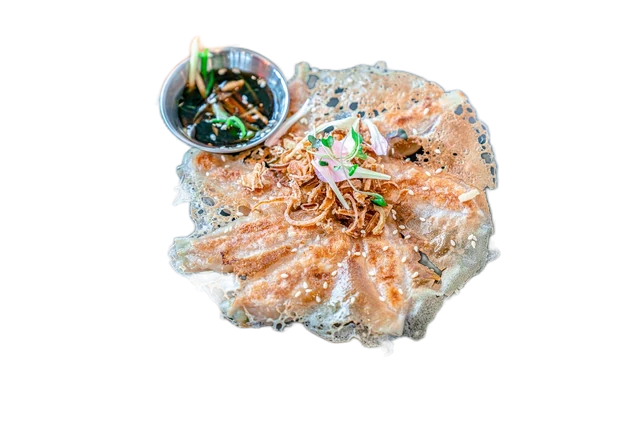
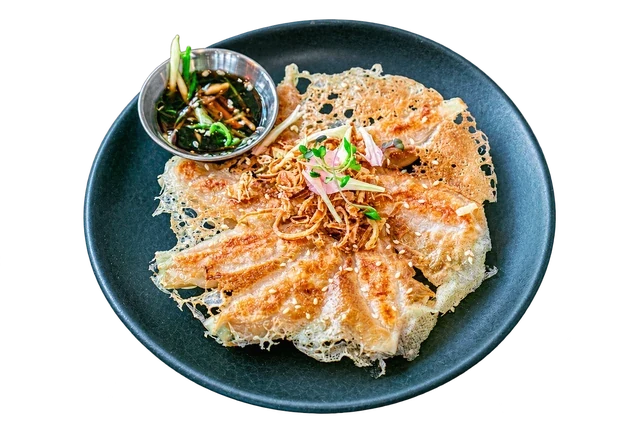
Restore Gyoza plate and clean Benedict cutout background

diff --git a/src/glimmer/catalogue.ts b/src/glimmer/catalogue.ts
@@ -10,7 +10,7 @@ import illustrations from './illustrative-portions.json';
 export interface MarketDish {
   id:string; venueId:string; restaurant:string; name:string; category:string; description:string;
   price:string; ingredients:string[]; allergens:string[]|null; dietary:string[];
-  illustrative?:boolean; menuImage?:string; photoCredit?:string; sourceUrl?:string; image:string; modelId?:string; sample:boolean; servingCount?:number; portion?:PublicPortion;
+  illustrative?:boolean; cutoutEdited?:boolean; menuImage?:string; photoCredit?:string; sourceUrl?:string; image:string; modelId?:string; sample:boolean; servingCount?:number; portion?:PublicPortion;
 }
 const originals:MarketDish[]=dishes.map(d=>{const photo=photos[d.id as keyof typeof photos],portion=portions[d.id as keyof typeof portions],illustration=illustrations[d.id as keyof typeof illustrations];return ({
   id:d.id, venueId:d.restaurantId, restaurant:restaurants.find(r=>r.id===d.restaurantId)!.name,
@@ -18,7 +18,7 @@ const originals:MarketDish[]=dishes.map(d=>{const photo=photos[d.id as keyof typ
   description:d.description.replace(/^Sample dish:\s*/i,''),price:demoPrice(d.id), ingredients:d.ingredients,allergens:photo?null:d.allergens,
   dietary:photo?[]:[...(d.dietary.vegan?['Vegan']:[]),...(d.dietary.vegetarian?['Vegetarian']:[]),...(d.dietary.glutenFree?['Gluten-free']:[])],
   image:photo?`${import.meta.env.BASE_URL}${photo.photo}`:illustration?`${import.meta.env.BASE_URL}${illustration.image}`:`${import.meta.env.BASE_URL}glimmer/${d.image}`,menuImage:`${import.meta.env.BASE_URL}glimmer/${d.image}`,illustrative:!!illustration,modelId:d.id,sample:true,
-  photoCredit:photo?`${photo.sourceDish} · ${photo.note}`:undefined,sourceUrl:photo?.source,
+  photoCredit:photo?`${photo.sourceDish} · ${photo.note}`:undefined,sourceUrl:photo?.source,cutoutEdited:portion?.segmentation.engine==='imagegen',
   portion:PublicPortionSchema.parse(portion?.portion??illustration?.portion??prepared[d.id as keyof typeof prepared].portion),
 });});
 

diff --git a/src/glimmer/dining-ui.ts b/src/glimmer/dining-ui.ts
@@ -63,7 +63,7 @@ export class DiningUI {
    const dx=a.reducedMotion?0:this.artX,dy=a.reducedMotion?0:this.artY;
    for(const layer of preview.images){const ratio=layer.image.naturalHeight/layer.image.naturalWidth,w=size-24,h=w*ratio;c.save();c.translate(x+size/2+dx*layer.depth,y+size/2+dy*layer.depth);c.transform(1,dy*.002,dx*.002,1,0,0);c.drawImage(layer.image,-w/2,-h/2,w,h);c.restore();}c.restore();
   }
-  a.text(this.photoMode?(d.illustrative?'ILLUSTRATIVE IMAGE':'PHOTO'):preview?.layered?'2.5D PREVIEW':'PHOTO PREVIEW',x+14,y+27,20,muted);
+  a.text(this.photoMode?(d.illustrative?'ILLUSTRATIVE IMAGE':'PHOTO'):preview?.layered?(d.cutoutEdited?'2.5D · AI-CLEANED CUTOUT':'2.5D PREVIEW'):'PHOTO PREVIEW',x+14,y+27,20,muted);
   this.detailPreview.show(d,this.photoMode,a.reducedMotion,a.immersive);
   a.button(this.photoMode?'2.5D preview':d.illustrative?'Illustrative image':'Original photo',x+8,y+size-44,190,36,()=>{this.photoMode=!this.photoMode;},false,'normal','',0,26);
   a.button(this.detailPreview.status.includes('Retry')?'Retry':'Reset view',x+206,y+size-44,146,36,()=>{this.artX=this.artY=0;this.detailPreview.reset();if(this.detailPreview.status.includes('Retry')){this.detailPreview.retry();this.failed.delete(key);this.previews.delete(key);}},false,'normal','',0,26);

diff --git a/scripts/prepare-restaurant-photos.py b/scripts/prepare-restaurant-photos.py
@@ -1,16 +1,23 @@
-"""PR162 alpha-only segmentation of matched source photos, with hashed T1 layers."""
+"""Prepare hashed T1 layers from reviewed cutout edits or source-photo segmentation."""
 import sys,json,hashlib,io,os
 from pathlib import Path
 from uuid import uuid5,NAMESPACE_URL
 from PIL import Image,ImageOps
 ROOT=Path(__file__).resolve().parents[1];sys.path.insert(0,str(ROOT/'scripts/processing'))
 os.environ['U2NET_HOME']=str(ROOT/'.model-pipeline/models')
-from peekaplate_processing.cutout import automatic_mask
 sha=lambda b:hashlib.sha256(b).hexdigest()
-index=json.loads((ROOT/'src/glimmer/restaurant-photos.json').read_text());out={}
+index=json.loads((ROOT/'src/glimmer/restaurant-photos.json').read_text());out=json.loads((ROOT/'src/glimmer/restaurant-portions.json').read_text())
+reviewed=json.loads((ROOT/'docs/restaurant-cutout-edits.json').read_text())
 for id,entry in index.items():
- source=ImageOps.exif_transpose(Image.open(ROOT/'public'/entry['photo'])).convert('RGB');source.thumbnail((640,640),Image.Resampling.LANCZOS)
- mask,metadata=automatic_mask(source);source=source.convert('RGBA');source.putalpha(Image.open(io.BytesIO(mask)).convert('L'))
+ if sys.argv[1:] and id not in sys.argv[1:]:continue
+ if id in reviewed:
+  edit=reviewed[id];data=(ROOT/edit['reviewed_cutout']).read_bytes()
+  assert sha(data)==edit['sha256'] and sha((ROOT/'public'/entry['photo']).read_bytes())==edit['source_sha256']
+  source=Image.open(io.BytesIO(data)).convert('RGBA');metadata={'engine':'imagegen','operation':'reviewed-background-extraction','source_sha256':edit['source_sha256'],'cutout_sha256':edit['sha256']}
+ else:
+  from peekaplate_processing.cutout import automatic_mask
+  source=ImageOps.exif_transpose(Image.open(ROOT/'public'/entry['photo'])).convert('RGB');source.thumbnail((640,640),Image.Resampling.LANCZOS)
+  mask,metadata=automatic_mask(source);source=source.convert('RGBA');source.putalpha(Image.open(io.BytesIO(mask)).convert('L'))
  folder=ROOT/'public/restaurant-portions'/id;folder.mkdir(parents=True,exist_ok=True)
  data=io.BytesIO();source.save(data,'WEBP',quality=88,method=6);foreground=data.getvalue()
  background=f'<svg xmlns="http://www.w3.org/2000/svg" width="{source.width}" height="{source.height}"></svg>'.encode()
